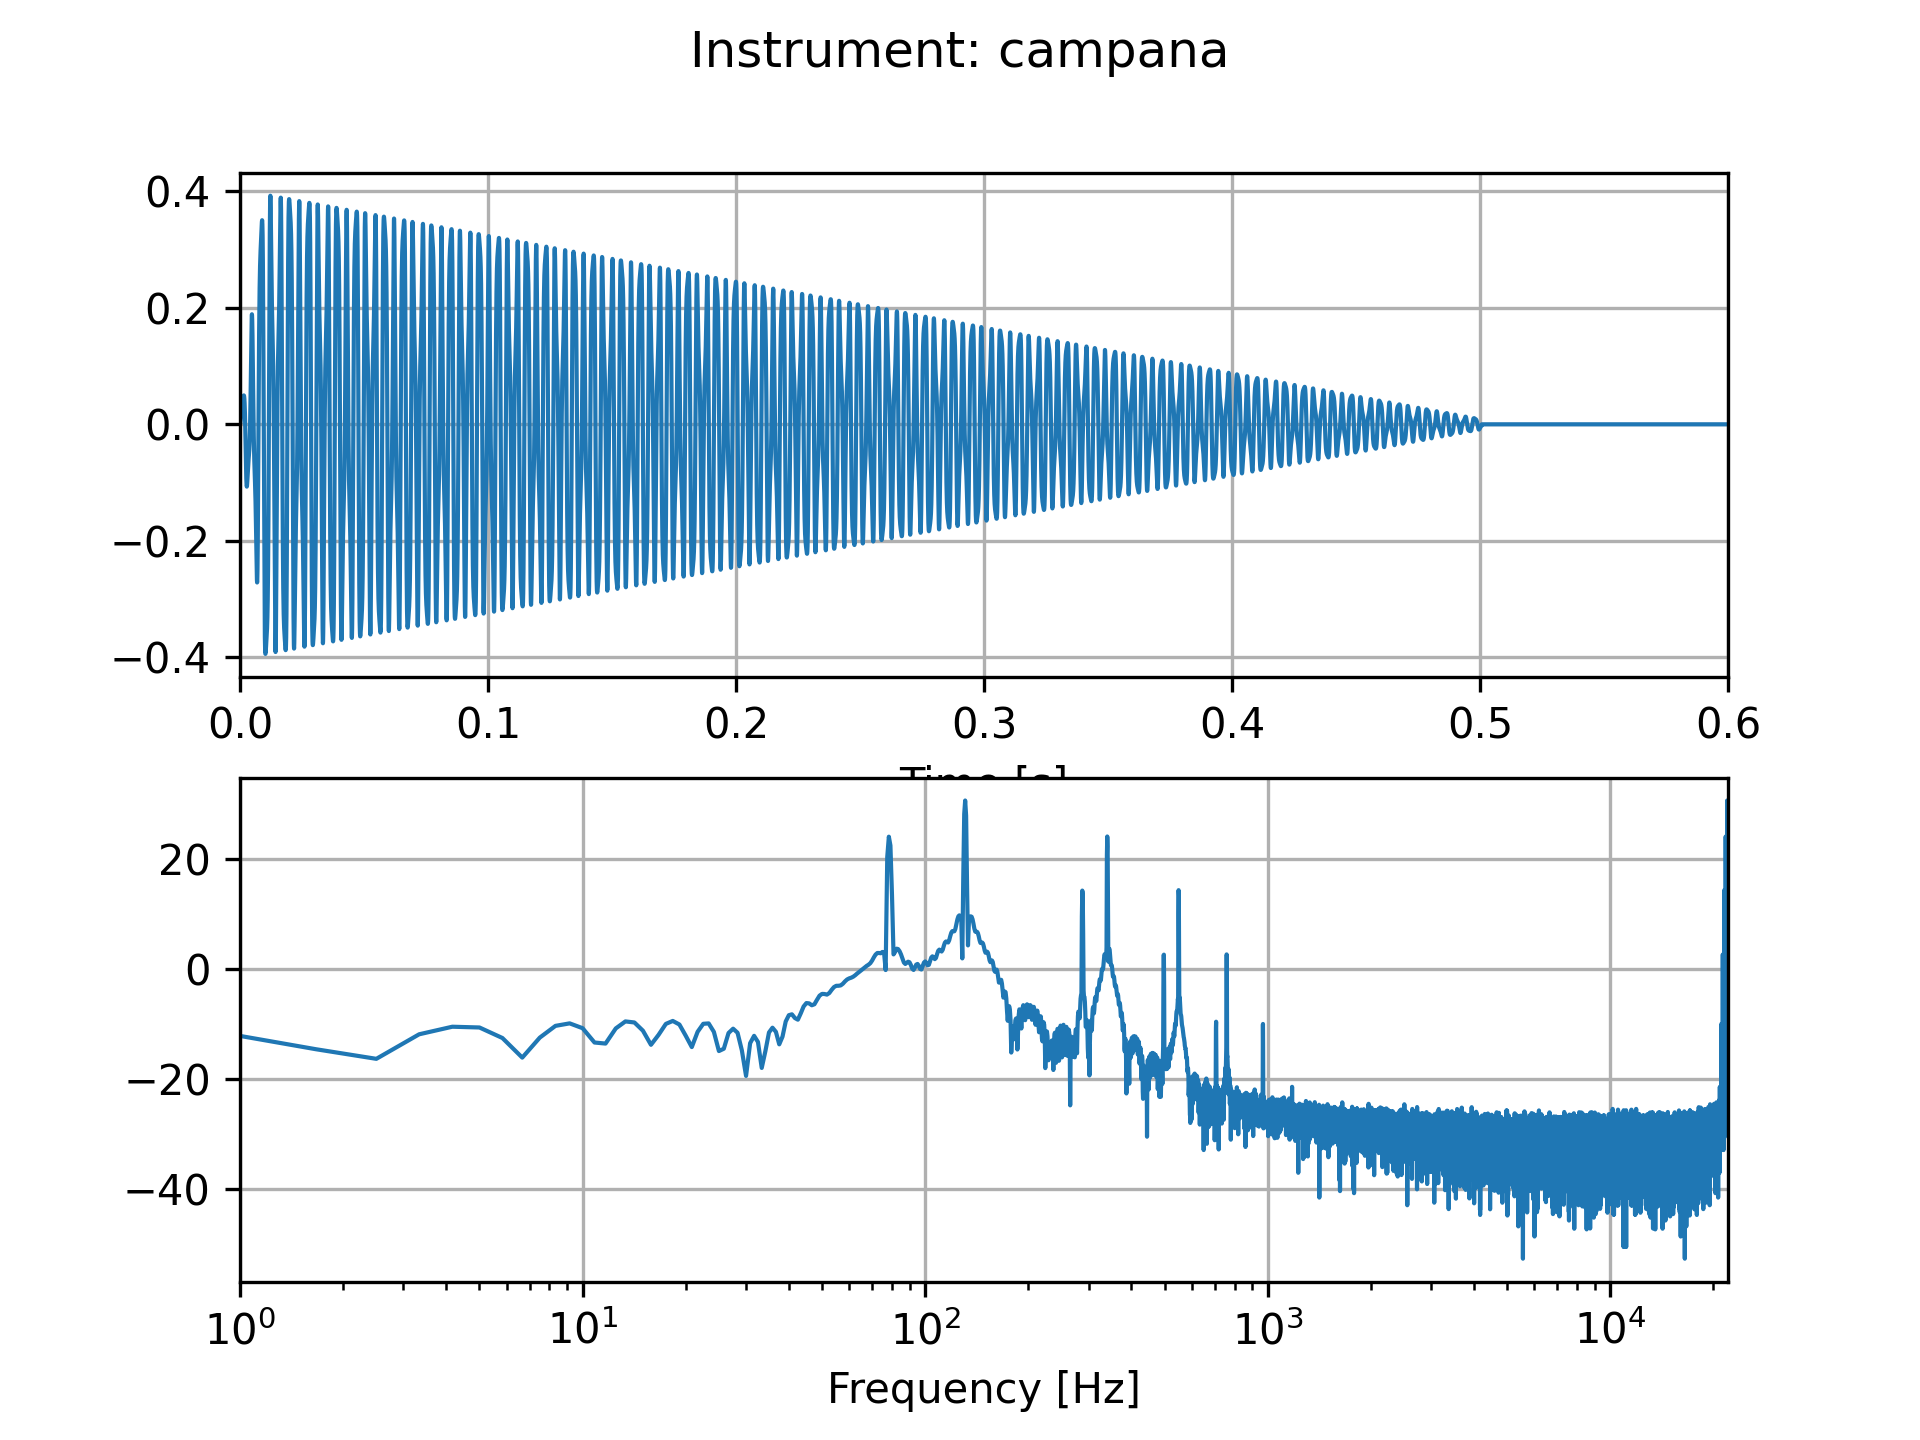
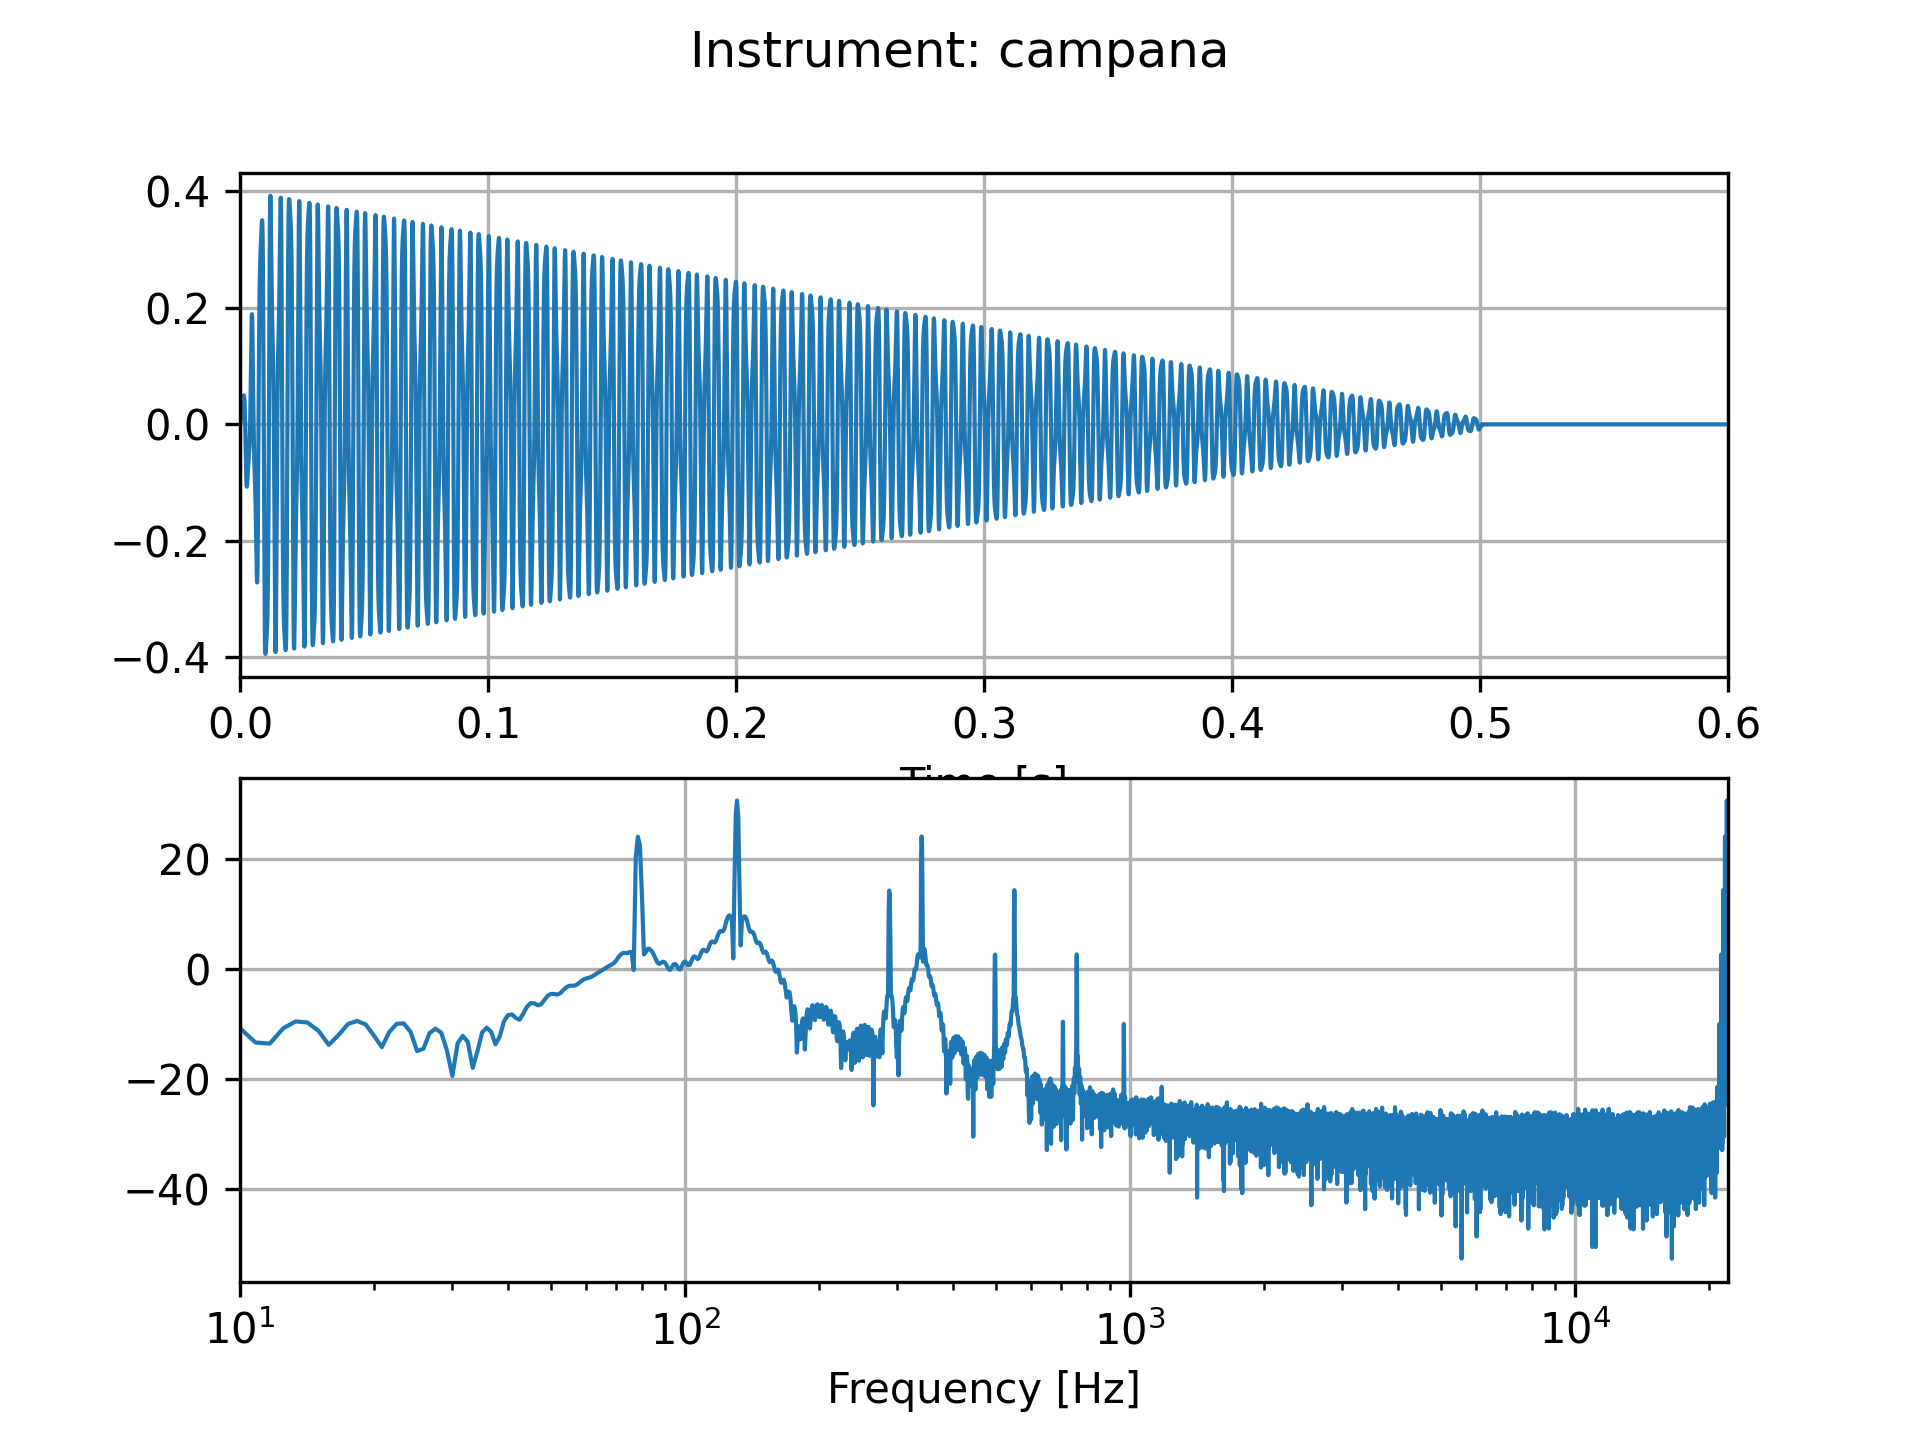
Plots instrumentos modificación eje x

diff --git a/scripts/plot-instrument.py b/scripts/plot-instrument.py
@@ -54,7 +54,7 @@ ax1.set_xlabel('Time [s]')
 ax1.grid()
 
 ax2.semilogx(f, data_fft, linewidth=lwidth)
-ax2.set_xlim(1, sampling_freq/2)
+ax2.set_xlim(10, sampling_freq/2)
 ax2.set_xlabel('Frequency [Hz]')
 ax2.grid()
 
